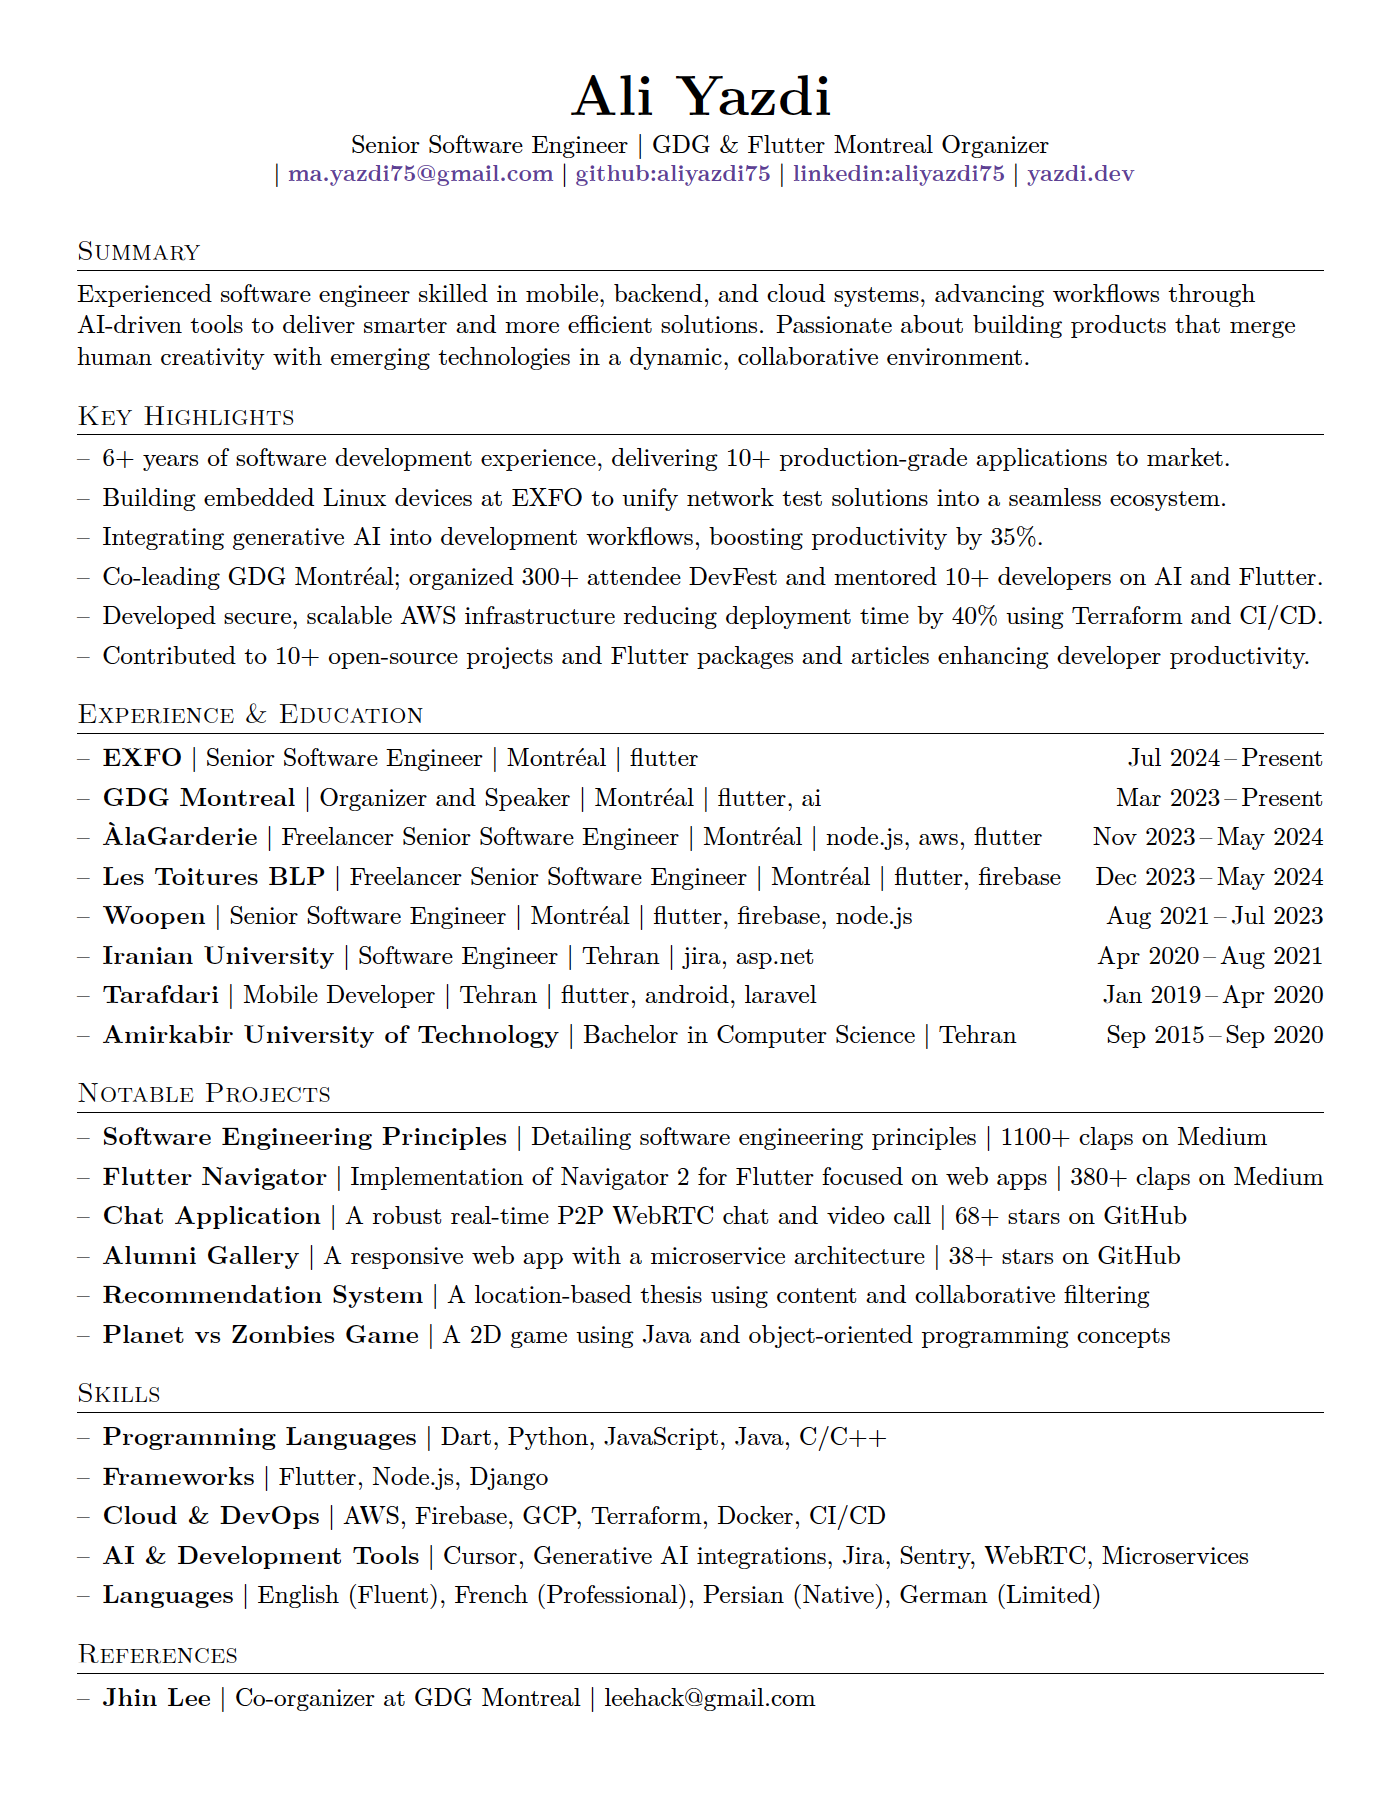
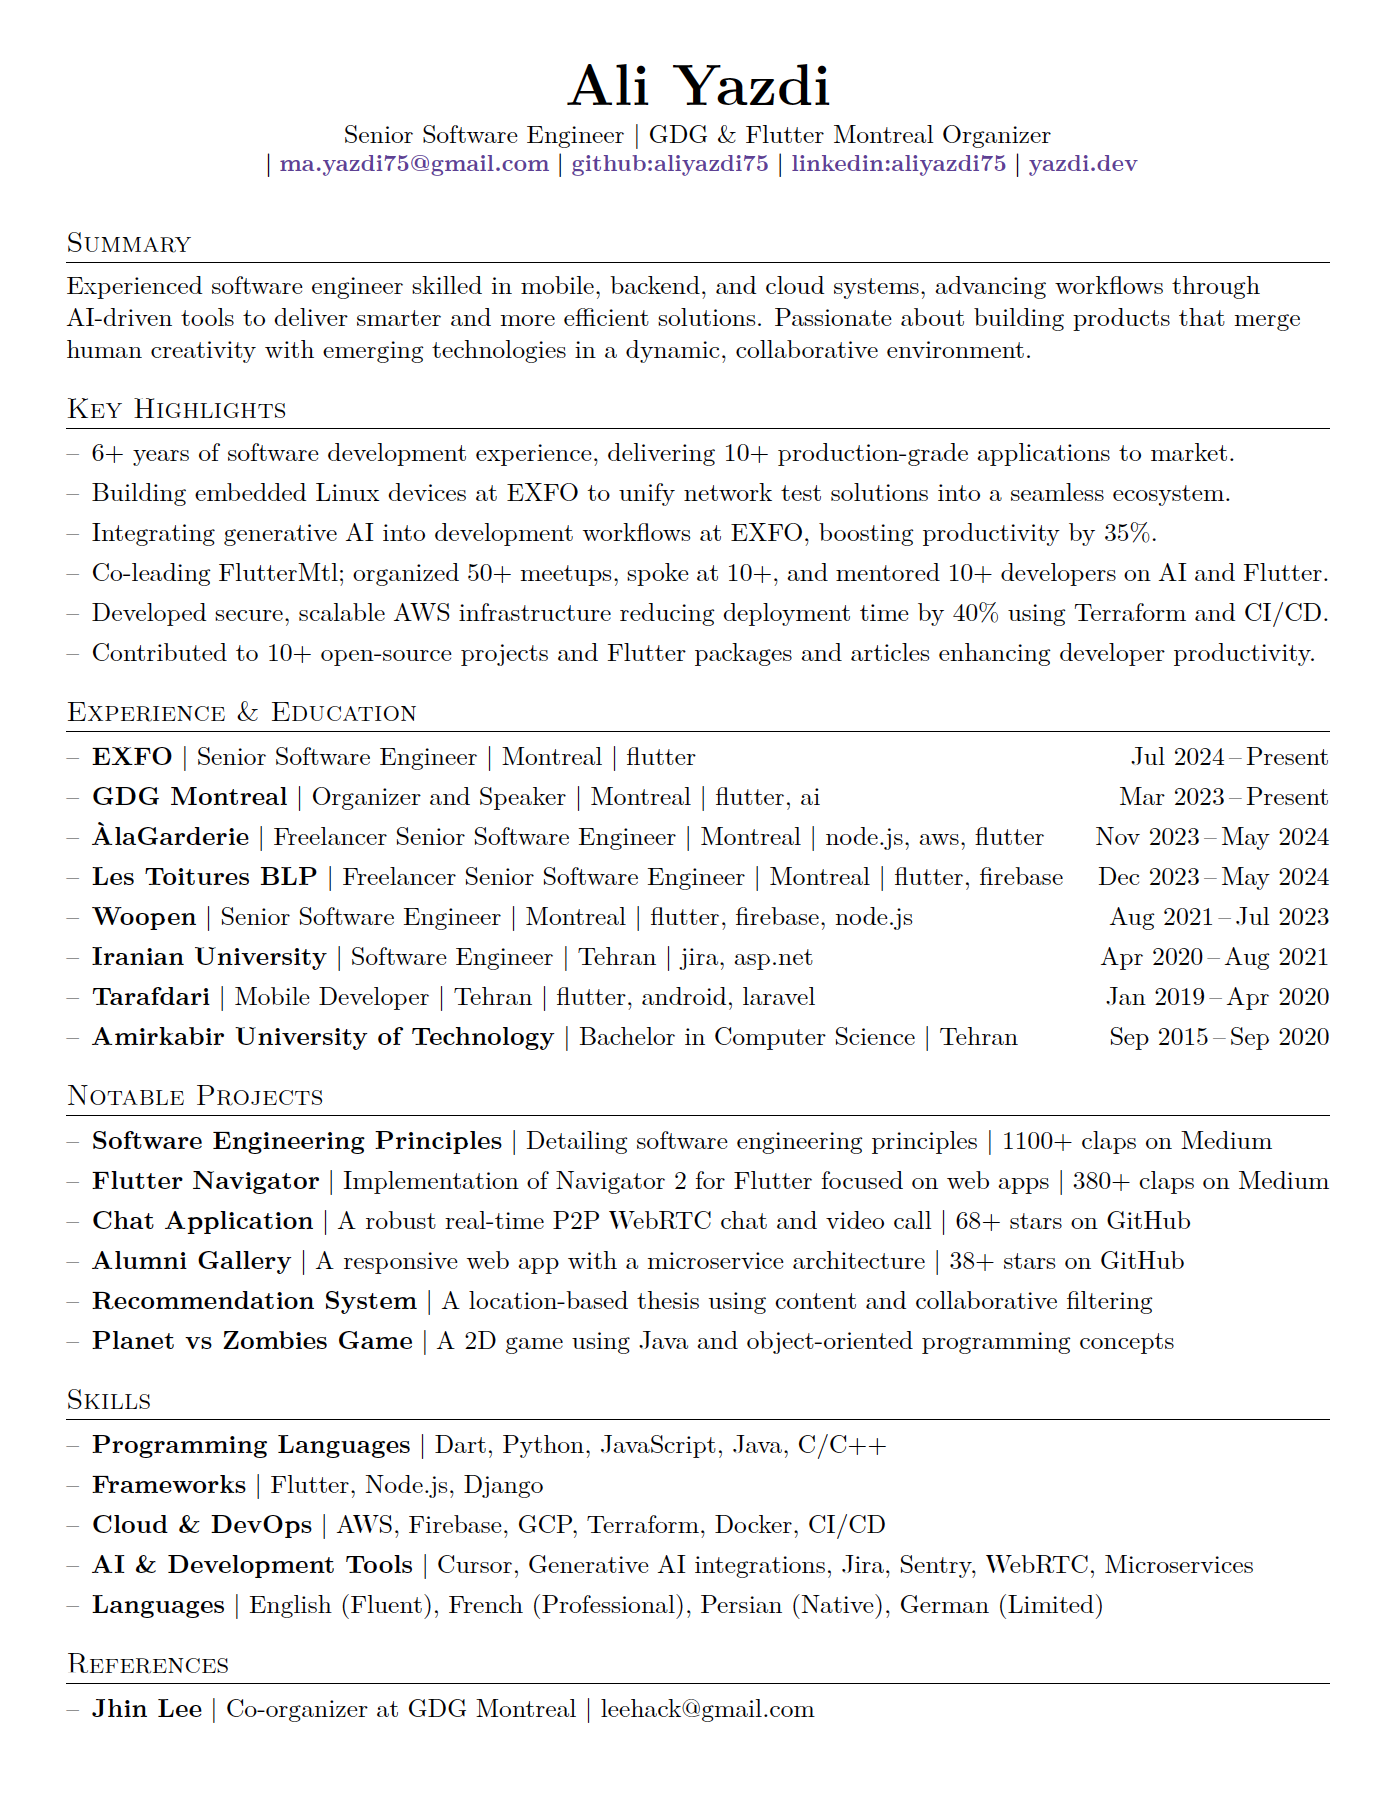
update cv

Changed region(s): [[0.0308, 0.1235, 0.9535, 0.957], [0.2153, 0.0309, 0.7997, 0.1235], [0.6767, 0.5557, 0.7382, 0.5865]]

diff --git a/AYazdiCV.tex b/AYazdiCV.tex
@@ -103,8 +103,8 @@ Passionate about building products that merge human creativity with emerging tec
 \begin{itemize}[leftmargin=*, noitemsep, topsep=0pt, partopsep=0pt]
       \item 6+ years of software development experience, delivering 10+ production-grade applications to market.
       \item \BigGap Building embedded Linux devices at EXFO to unify network test solutions into a seamless ecosystem.
-      \item \BigGap Integrating generative AI into development workflows, boosting productivity by 35\%.
-      \item \BigGap Co-leading GDG Montréal; organized 300+ attendee DevFest and mentored 10+ developers on AI and Flutter.
+      \item \BigGap Integrating generative AI into development workflows at EXFO, boosting productivity by 35\%.
+      \item \BigGap Co-leading \href{https://fluttermtl.dev}{FlutterMtl}; organized 50+ meetups, spoke at 10+, and mentored 10+ developers on AI and Flutter.
       \item \BigGap Developed secure, scalable AWS infrastructure reducing deployment time by 40\% using Terraform and CI/CD.
       \item \BigGap Contributed to 10+ open-source projects and Flutter packages and articles enhancing developer productivity.
 \end{itemize}
@@ -118,27 +118,27 @@ Passionate about building products that merge human creativity with emerging tec
 \begin{itemize}[leftmargin=*, noitemsep, topsep=0pt, partopsep=0pt]
       \item
             \href{https://exfo.com}
-            {\textbf{EXFO}} | Senior Software Engineer | Montréal | flutter
+            {\textbf{EXFO}} | Senior Software Engineer | Montreal | flutter
             \hfill \DatestampYM{2024}{07}\,--\,Present
 
       \item    \BigGap
             \href{https://gdg.community.dev/gdg-montreal}
-            {\textbf{GDG Montreal}} | Organizer and Speaker | Montréal | flutter, ai
+            {\textbf{GDG Montreal}} | Organizer and Speaker | Montreal | flutter, ai
             \hfill \DatestampYM{2023}{03}\,--\,Present
 
       \item    \BigGap
             \href{https://alagarderie.ca}
-            {\textbf{ÀlaGarderie}} | Freelancer Senior Software Engineer | Montréal | node.js, aws, flutter
+            {\textbf{ÀlaGarderie}} | Freelancer Senior Software Engineer | Montreal | node.js, aws, flutter
             \hfill \DatestampYM{2023}{11}\,--\,\DatestampYM{2024}{05}
 
       \item    \BigGap
             \href{https://toituresblp.ca}
-            {\textbf{Les Toitures BLP}} | Freelancer Senior Software Engineer | Montréal | flutter, firebase
+            {\textbf{Les Toitures BLP}} | Freelancer Senior Software Engineer | Montreal | flutter, firebase
             \hfill \DatestampYM{2023}{12}\,--\,\DatestampYM{2024}{05}
 
       \item    \BigGap
             \href{https://woopen.com}
-            {\textbf{Woopen}} | Senior Software Engineer | Montréal | flutter, firebase, node.js
+            {\textbf{Woopen}} | Senior Software Engineer | Montreal | flutter, firebase, node.js
             \hfill \DatestampYM{2021}{08}\,--\,\DatestampYM{2023}{07}
 
       \item   \BigGap
